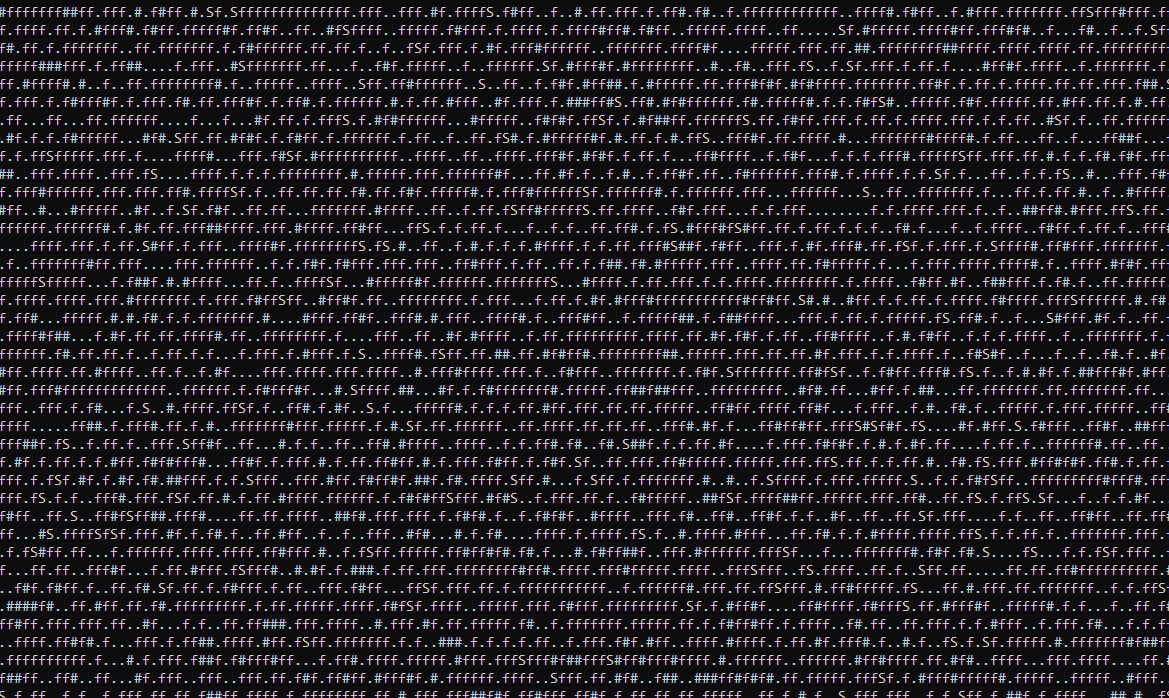
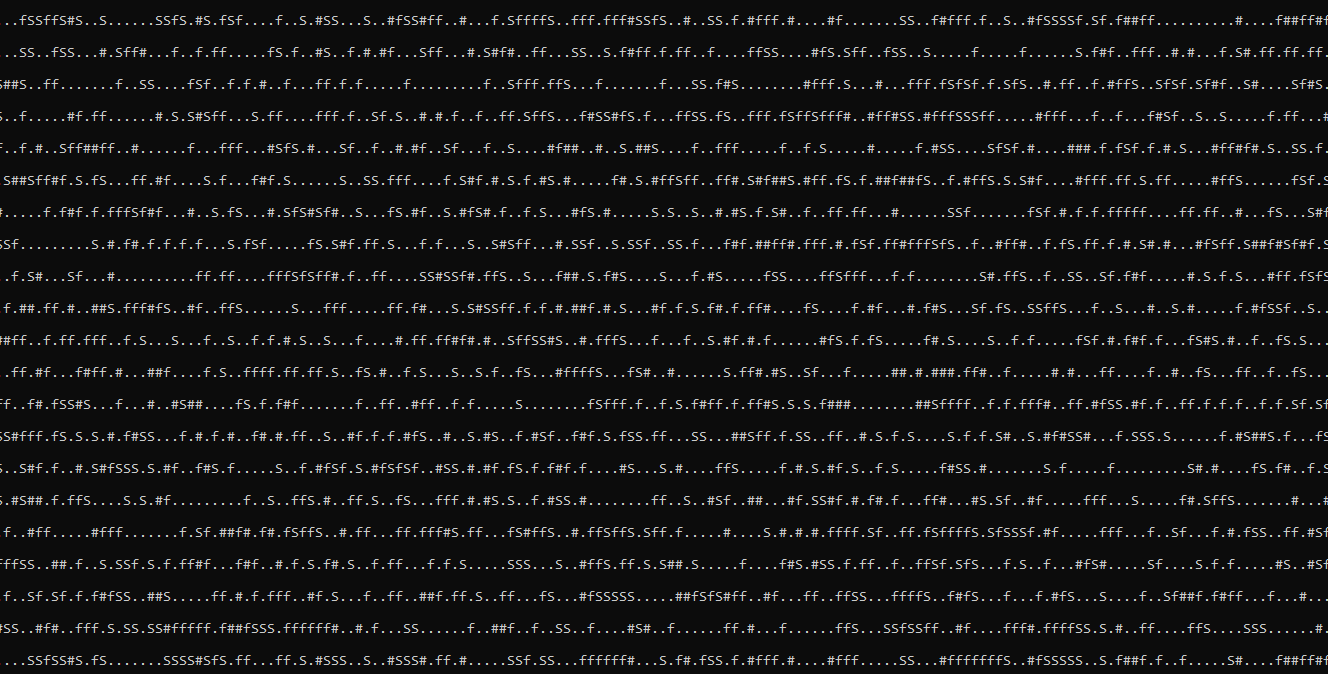
add generateOrder()

diff --git a/src/ocean.cpp b/src/ocean.cpp
@@ -5,10 +5,12 @@
 
 Ocean::Ocean(unsigned int _height, unsigned int _width) :
   height(_height), width(_width) {
+  addOrder.resize(_height * _width);
   cells.resize(_height);
   for (unsigned int i = 0; i < _height; i++) {
     cells[i].resize(_width);
     for (unsigned int j = 0; j < _width; j++) {
+      /*
       int temperature = 0;
       if (!i && !j) {
         temperature = std::rand() % 71 - 35;
@@ -29,19 +31,23 @@ Ocean::Ocean(unsigned int _height, unsigned int _width) :
         }
       }
       cells[i][j] = new Cell(this, {i, j}, temperature);
+      */
+      cells[i][j] = new Cell(this, {i, j}, std::rand() % 71 - 35);
     }
   }
-  unsigned int count = _height * _width;
-  addOrder.resize(count);
+}
+
+void Ocean::generateOrder() {
+  unsigned int count = height * width;
   std::vector<unsigned int> residues(count);
-  for (unsigned int i = count - 1; i >= 0; i--) {
+  for (int i = count - 1; i >= 0; i--) {
     residues[i] = std::rand() % (i + 1);
     addOrder[i] = residues[i];
     for (unsigned int j = i + 1; j < count; j++) {
       addOrder[i] += residues[j] + 1;
       addOrder[i] %= (j + 1);
     }
-    //  std::cout << addOrder[i];
+    //  std::cout << addOrder[i] << " ";
   }
 }
 
@@ -91,6 +97,7 @@ void Ocean::createObjects(NATURE _nature, unsigned int _count) {
     }
     cells[x][y]->setObject(object);
     objects.insert(object);
+    //std::cout << i << " ";
   }
 }
 
@@ -114,6 +121,7 @@ void Ocean::run(unsigned int _years) {
   for (unsigned int year = 0; year < _years; year++) {
     for (unsigned int i = 0; i < height; i++) {
       for (unsigned int j = 0; j < width; j++) {
+        /*
         int temperature = 0;
         if (!i && !j) {
           temperature = cells[i][j]->getTemperature() + std::rand() % 11 - 5;
@@ -133,7 +141,9 @@ void Ocean::run(unsigned int _years) {
             temperature = cells[i][j]->getTemperature() + std::rand() % 11 - 5;
           }
         }
-        cells[i][j]->setTemperature(temperature);
+        */
+        cells[i][j]->setTemperature(cells[i][j]->getTemperature()
+                                    + std::rand() % 7 - 3);
       }
     }
 

diff --git a/src/main.cpp b/src/main.cpp
@@ -6,10 +6,11 @@
 
 int main() {
   srand(time(0));
-  Ocean ocean(50, 100);
-  ocean.createObjects(NATURE::STONE, 200);
-  ocean.createObjects(NATURE::PREY, 2000);
-  ocean.createObjects(NATURE::PREDATOR, 500);
-  ocean.run(1000);
+  Ocean ocean(20, 168);
+  ocean.generateOrder();
+  ocean.createObjects(NATURE::STONE, 370);
+  ocean.createObjects(NATURE::PREY, 980);
+  ocean.createObjects(NATURE::PREDATOR, 520);
+  ocean.run(10);
   return 0;
 }

diff --git a/include/ocean.h b/include/ocean.h
@@ -43,6 +43,7 @@ class Ocean {
     ~Ocean();
     void print();
     void createObjects(NATURE _nature, unsigned int _count);
+    void generateOrder();
     void addObject(Object* _object);
     void deleteObject(Cell* _cell);
     void run(unsigned int _years);
